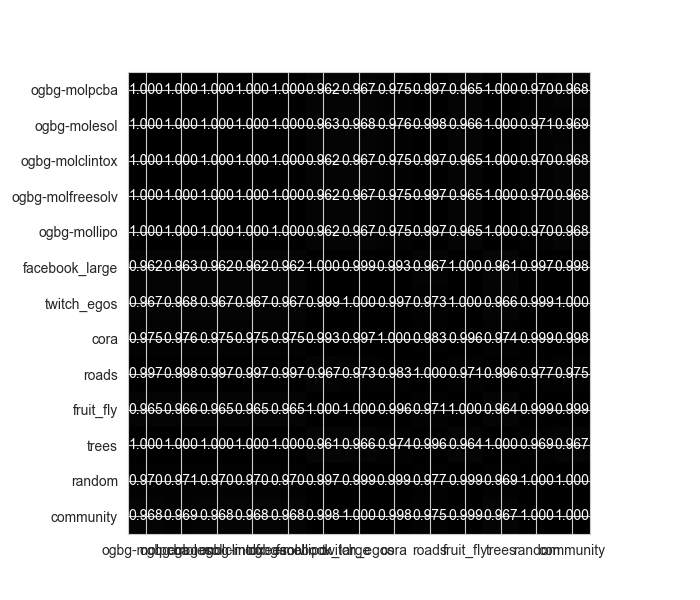
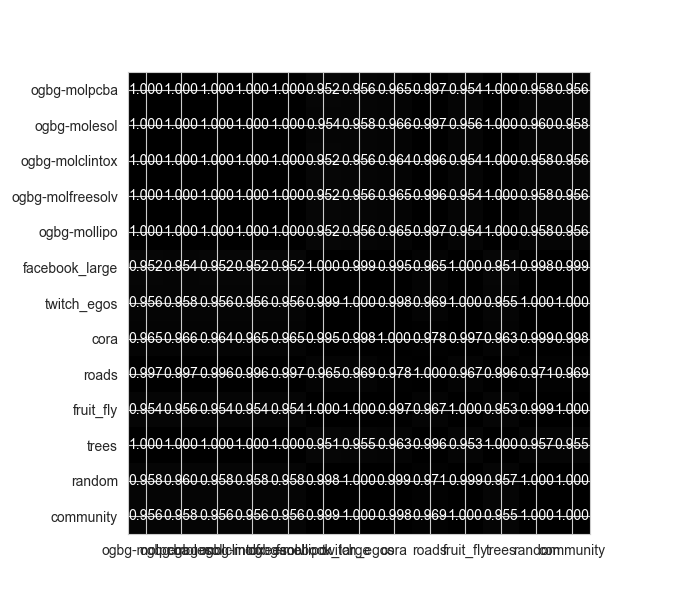
Adding random node and edge dropping

diff --git a/train.py b/train.py
@@ -57,23 +57,17 @@ def train_epoch_random_edges(dataloader,
                       model_loss_all,
                       drop_proportion = 0.2):
     """
-    single train epoch for encoder and view learner
-
-
+    single train epoch for encoder with random edge dropping as augmentation
     Args:
         dataloader: dataloader (see get_train_loader)
         model: encoder
         model_optimizer: optimizer for model
-        view_learner: view learner
-        view_optimizer: optimizer for view learner
         model_loss_all: stores losses for each batch
-        view_loss_all: stores view losses for each batch
-        reg_all: stores regularization losses for each batch
 
     Returns:
         model_loss_all: loss for epoch
-        view_loss_all: view loss for epoch
-        reg_all: regularization loss for epoch
+        view_loss_all: None - placeholder for code consistency with AD-GCL
+        reg_all: None - placeholder for code consistency with AD-GCL
     """
 
     device = "cuda" if torch.cuda.is_available() else "cpu"
@@ -91,8 +85,68 @@ def train_epoch_random_edges(dataloader,
         x_aug_1, _ = model(batch.batch, batch.x, batch.edge_index, batch.edge_attr, edge_weights_1)
         x_aug_2, _ = model(batch.batch, batch.x, batch.edge_index, batch.edge_attr, edge_weights_2)
 
-        # model_loss = cl_loss(x_aug_1, x_aug_2) #
-        model_loss = model.calc_loss(x_aug_1, x_aug_2)
+        model_loss = cl_loss(x_aug_1, x_aug_2) #
+        # model_loss = model.calc_loss(x_aug_1, x_aug_2)
+        model_loss_all += model_loss.item() * batch.num_graphs
+
+        # standard gradient descent formulation
+        model_loss.backward()
+        model_optimizer.step()
+
+    return model_loss_all, None, None
+
+
+
+def train_epoch_random_nodes(dataloader,
+                      model, model_optimizer,
+                      model_loss_all,
+                      drop_proportion = 0.2):
+    """
+    single train epoch for encoder with random node dropping as augmentation
+    Args:
+        dataloader: dataloader (see get_train_loader)
+        model: encoder
+        model_optimizer: optimizer for model
+        model_loss_all: stores losses for each batch
+
+    Returns:
+        model_loss_all: loss for epoch
+        view_loss_all: None - placeholder for code consistency with AD-GCL
+        reg_all: None - placeholder for code consistency with AD-GCL
+    """
+
+    device = "cuda" if torch.cuda.is_available() else "cpu"
+    for batch in tqdm(dataloader, leave = False):
+        # set up
+        batch = batch.to(device)
+        # # train (model) to minimize contrastive loss
+        model.train()
+        # view_learner.eval()
+        model.zero_grad()
+
+
+        nodes_dropped_1 = torch.bernoulli(drop_proportion * torch.ones(batch.x.shape[0])).to(bool).to(device)
+        nodes_dropped_2 = torch.bernoulli(drop_proportion * torch.ones(batch.x.shape[0])).to(bool).to(device)
+
+        mask_1 = torch.ones(batch.edge_index.shape[1], dtype=bool).to(device)
+        mask_2 = torch.ones(batch.edge_index.shape[1], dtype=bool).to(device)
+
+        # Find edges connected to dropped nodes and update the mask
+        edges_dropped_1 = torch.any(batch.edge_index == torch.nonzero(nodes_dropped_1).unsqueeze(1), dim=0).any(dim=0).to(device)
+        edges_dropped_2 = torch.any(batch.edge_index == torch.nonzero(nodes_dropped_2).unsqueeze(1), dim=0).any(dim=0).to(device)
+
+        mask_1[edges_dropped_1] = False
+        mask_2[edges_dropped_2] = False
+
+        mask_1 = mask_1.to(batch.x.dtype).to(device)
+        mask_2 = mask_2.to(batch.x.dtype).to(device)
+
+
+        x_aug_1, _ = model(batch.batch, batch.x, batch.edge_index, batch.edge_attr, mask_1)
+        x_aug_2, _ = model(batch.batch, batch.x, batch.edge_index, batch.edge_attr, mask_2)
+
+        model_loss = cl_loss(x_aug_1, x_aug_2) #
+        # model_loss = model.calc_loss(x_aug_1, x_aug_2)
         model_loss_all += model_loss.item() * batch.num_graphs
 
         # standard gradient descent formulation
@@ -214,7 +268,10 @@ def run(args):
     if "original_datasets" not in os.listdir():
         os.mkdir("original_datasets")
 
-    random_dropping = args.random_views
+    random_node_dropping = args.random_node_views
+    random_edge_dropping = args.random_edge_views
+
+    random_dropping = True if random_edge_dropping or random_node_dropping else False
     drop_proportion = args.dropped
 
     evaluation_node_features = args.node_features
@@ -269,10 +326,16 @@ def run(args):
                                                                        view_learner, view_optimizer,
                                                                        model_loss_all, view_loss_all, reg_all)
         else:
-            model_loss_all, view_loss_all, reg_all = train_epoch_random_edges(dataloader,
-                                                                       model, model_optimizer,
-                                                                       model_loss_all,
-                                                                       drop_proportion=drop_proportion)
+            if random_edge_dropping:
+                model_loss_all, view_loss_all, reg_all = train_epoch_random_edges(dataloader,
+                                                                           model, model_optimizer,
+                                                                           model_loss_all,
+                                                                           drop_proportion=drop_proportion)
+            elif random_node_dropping:
+                model_loss_all, view_loss_all, reg_all = train_epoch_random_nodes(dataloader,
+                                                                           model, model_optimizer,
+                                                                           model_loss_all,
+                                                                           drop_proportion=drop_proportion)
 
         fin_model_loss += model_loss_all / len(dataloader)
         fin_view_loss += view_loss_all / len(dataloader)
@@ -354,10 +417,17 @@ def arg_parse():
     )
 
     parser.add_argument(
-        '-r',
-        '--random-views',
+        '-re',
+        '--random-edge-views',
         action='store_true',
         help='Whether to use random edge dropping',
+    )
+
+    parser.add_argument(
+        '-rn',
+        '--random-node-views',
+        action='store_true',
+        help='Whether to use random node dropping',
     )
 
     parser.add_argument(
